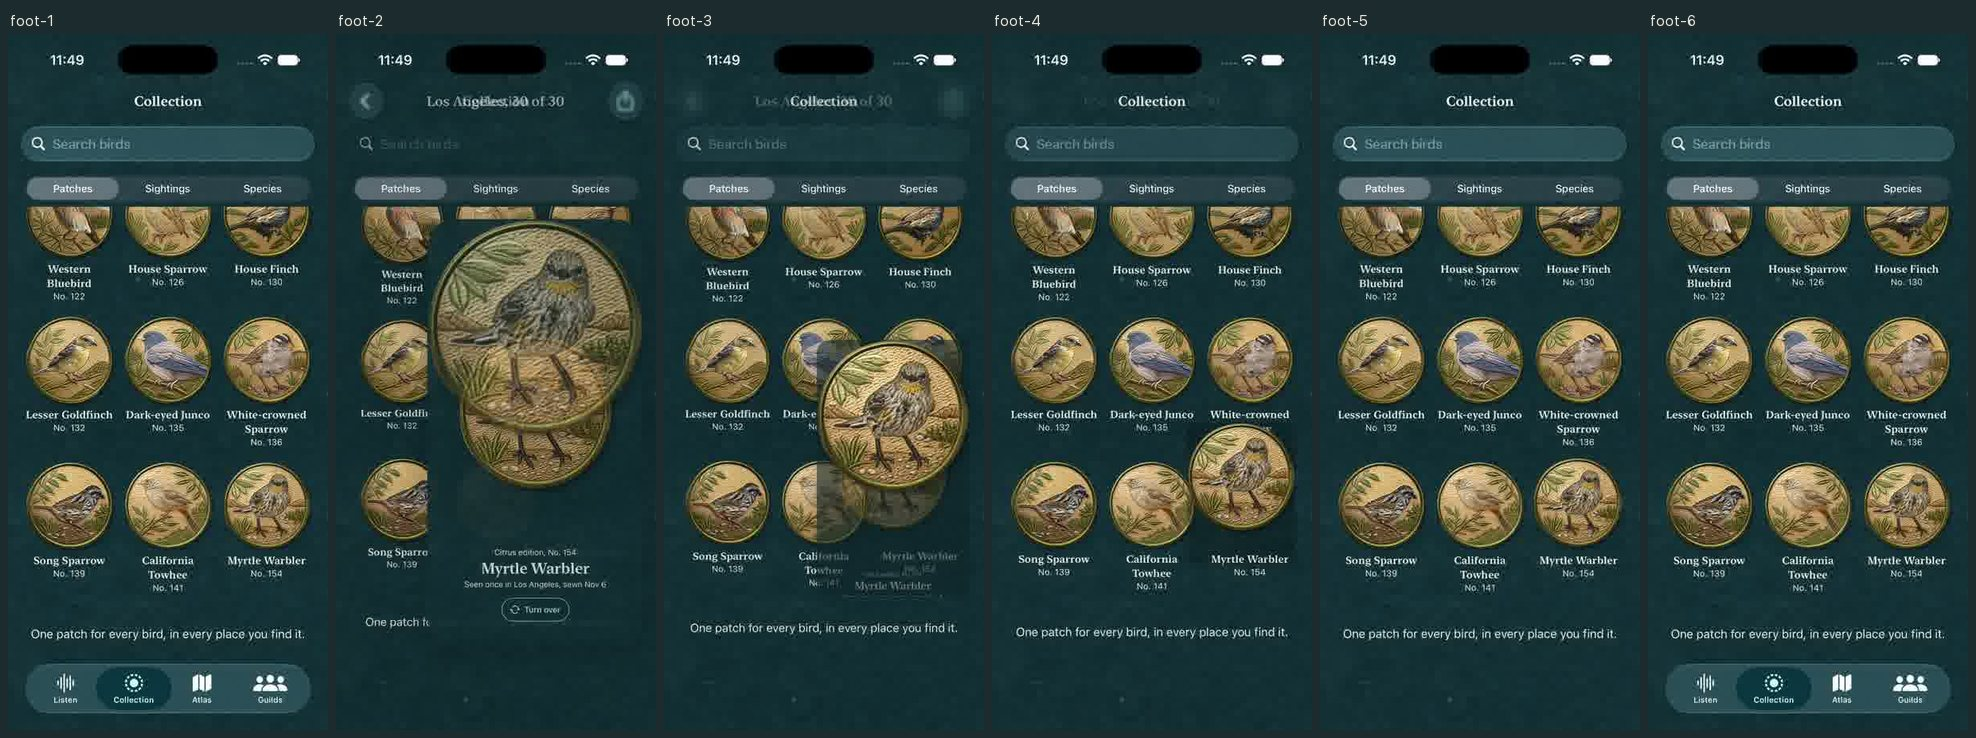
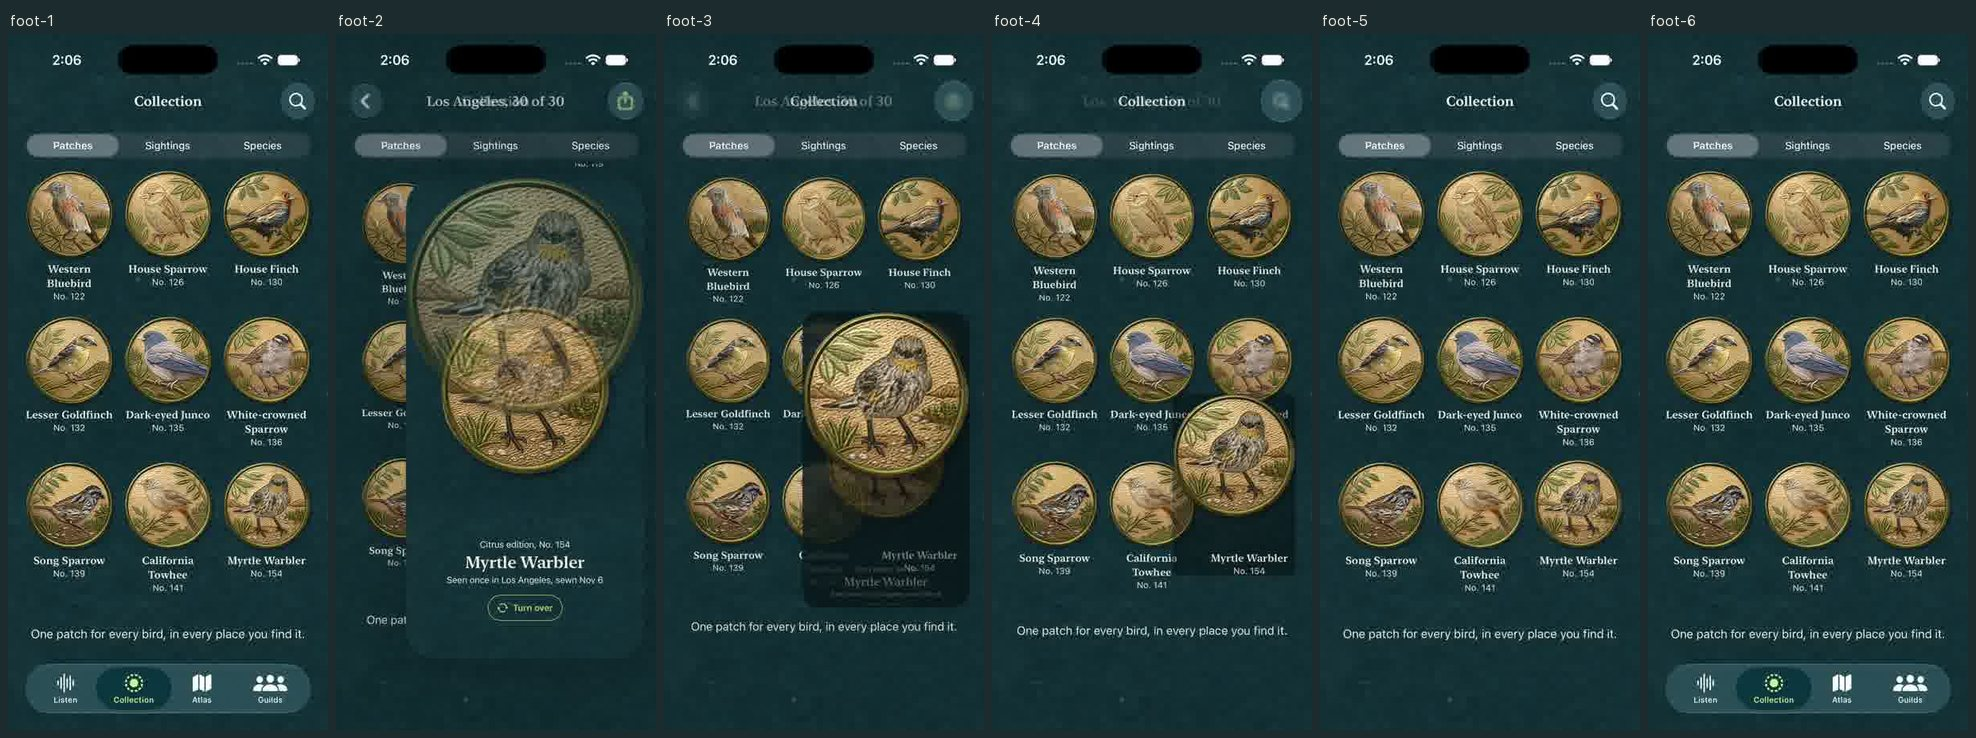
Feel: the search field's 8 pt, ax5 and Reduce Motion evidence (#150)

diff --git a/BirdJournal/BirdJournalUITests/CollectionUITests.swift b/BirdJournal/BirdJournalUITests/CollectionUITests.swift
@@ -64,7 +64,8 @@ final class CollectionUITests: XCTestCase {
         let finch = app.buttons.matching(NSPredicate(format: "label BEGINSWITH 'House Finch, Citrus edition patch'")).firstMatch
         XCTAssertTrue(finch.waitForExistence(timeout: 10), "\(app.debugDescription.prefix(3000))")
         XCTAssertFalse(app.buttons.matching(NSPredicate(format: "label BEGINSWITH 'Mourning Dove'")).firstMatch.exists, "the search kept only the match")
-        XCTAssertEqual(modes.frame.minY, top, accuracy: 0.5, "the picker moved")
+        // The open field stands 8 pt taller than the title's row, and only when asked for. No mode change moves it.
+        XCTAssertEqual(modes.frame.minY, top + 8, accuracy: 2, "the picker moved")
     }
 
     @MainActor

diff --git a/DECISIONS.md b/DECISIONS.md
@@ -1155,7 +1155,7 @@ How the app answers. Lift, press, haptics, the patch's pop-in, the set's menu, m
 - **The peek.** Turn over opens the patch's page on its paper card (`Route.patch(_, turned: true)`), and All sightings its sightings, through an environment action (`pushRoute`), rather than a `NavigationLink` inside a menu item. "All sightings" reads "1 sighting" or "All 3 sightings" as the paper card's footer does (`PatchText.allSightings`). Share shares the newest sighting, as the patch's page does, fetched when asked for so a board of tiles doesn't each hold the album.
 - **Pop-in.** Cached at first draw, a patch simply shows, and a page's patch shows the tile's picture until its own arrives, so it doesn't turn blank growing out of its tile. A wait shows the blank, which fades into the lit patch in 0.18 s. A board decodes ahead through `PatchTextures.decodeAhead`, one low-priority, utility-QoS operation at a time on the existing two-at-a-time queue, so a patch on screen always has a slot, and an operation that finds its patch already decoded does nothing. It stops with the board's task. The first 48 only: at about 650 KB each, a full 160 would be 100 MB, and the rest decode as they scroll in, as they do today.
 - **The set's menu.** The name heads the Patches mode and is the Menu when there's more than one set; with one, it's just the name, and the total shows nowhere, since the count under it says the same patches and Sightings has the rest. Under it the thread and "3 of 160 sewn, Citrus edition", still opening the set's page. The total ("5 patches, 6 sightings") is the menu's first line, above the sets: as a section title it doesn't show over a picker. The menu is in the bar with the modes, so another set is in reach from anywhere on a board; the thread and count scroll with the board. There, the name stops growing at the first accessibility size. The bar takes the touches on its empty parts. Slice 6's `ThreadProgress` sits under the name, with `.id(setID)`, so another set's thread doesn't sew from this one's count.
-- **The picker stays still.** It's in a `safeAreaBar` above the scroll view, under a title that doesn't collapse (`.inlineLarge`), with the set's menu. Pinned inside the scrolling content, it rode that content: from a scrolled board to Sightings it fell to about y=675 and climbed back over 0.3 s, as the new mode's height collapsed inside the fade, and it rested 52 pt apart between scrolled and not. So the bar stays one height, and the title keeps its row, swapping from large to small within it as a board scrolls. Search is a magnifier in that row (`.searchable(placement: .toolbar)` with `.searchToolbarBehavior(.minimize)`) that opens to a field: as a drawer it hid on scroll and took the picker with it by 52 pt, and as an always-showing field it cost 52 pt of patches at the top of a board, which the first version of this entry called the only way, wrongly. `testThePickerStaysStillThroughAModeChange` samples it through the change.
+- **The picker stays still.** It's in a `safeAreaBar` above the scroll view, under a title that doesn't collapse (`.inlineLarge`), with the set's menu. Pinned inside the scrolling content, it rode that content: from a scrolled board to Sightings it fell to about y=675 and climbed back over 0.3 s, as the new mode's height collapsed inside the fade, and it rested 52 pt apart between scrolled and not. So the bar stays one height, and the title keeps its row, swapping from large to small within it as a board scrolls. Search is a magnifier in that row (`.searchable(placement: .toolbar)` with `.searchToolbarBehavior(.minimize)`) that opens to a field: as a drawer it hid on scroll and took the picker with it by 52 pt, and as an always-showing field it cost 52 pt of patches at the top of a board, which the first version of this entry called the only way, wrongly. Opening the field moves the picker down 8 pt, on that tap alone; no mode change or scroll does. At the largest text the field stays in its row, where as a drawer it took 124 pt. `testThePickerStaysStillThroughAModeChange` samples it through the change.
 - **Modes.** The surface cross-fades (0.25 s, 0.12 s under Reduce Motion), as the issue says, in one scroll view. What's on it doesn't cross-fade with it, because that scroll view moves to the new mode's place about 60 ms in, and the old mode would be seen jumping as it faded: the old mode is gone in 0.05 s, and the new one comes up from 0.08 s. One scroll view per mode would have kept each one's offset for free, but would have put a second picker on screen and handed the navigation bar a new scroll view at each change. A quick run of changes cancels the restore under way, so a mode's saved place isn't overwritten part way.
 - **The foot of a board.** A real bug, not load: opening a patch and coming back left the foot of a board 49 pt lower every time (537 to 586, the tab bar's height). The page hides the tab bar, the scroll view underneath gets taller, and the offset was clamped. Correcting it afterwards still let the zoom land low, so now it isn't clamped: there's room below the content from the moment the page opens until the bar is back. A finger on the board takes the room away at once, so a flick can't reach empty felt and then be pulled back. `testTheFootOfABoardComesBackWhereItWas` failed before and holds it.
 - **The splash** is decided in `AppSurface`, not the `App`, whose closure Swift 6 traps off the main actor. It plays until `launchSplashShown` is set, which is at its start, so a launch killed part way has still shown it. An upgrade shows it once more. The launch screen stays. Slice 11's art goes in `LaunchSplash.art`.

diff --git a/docs/screenshots/150/feel/README.md b/docs/screenshots/150/feel/README.md
@@ -8,7 +8,7 @@ Every picture is the running app on an iPhone 17 Pro simulator at half size, tak
 | R2 | A spring press on the shared styles, or a dim under Reduce Motion | none: it lasts as long as a finger | `FeelTests.press`, and on a phone |
 | R3 | One list of haptics | none | `FeelTests.haptics` for the table; `FeelUITests` for which moments ask (`-hapticLog`), and on a phone |
 | R6 | The blank fades into the patch; the board decodes ahead | none: 0.18 s | `FeelTests` for decoding ahead, its stop and a visible patch first; the sweep below |
-| F9 | The set's name is the menu, pinned with the modes, its thread and count under it, the total in the menu | `board-dark`, `menu-dark`, `board-scrolled-dark`, `search-dark`, `board-light`, `board-ax5`, `board-contrast` | `FeelUITests`, `testTheSetMenuIsInReachFromAScrolledBoard`, `ScreenAccessibilityTests` |
+| F9 | The set's name is the menu, pinned with the modes, its thread and count under it, the total in the menu | `board-dark`, `menu-dark`, `board-scrolled-dark`, `search-dark`, `search-ax5`, `board-light`, `board-ax5`, `board-contrast` | `FeelUITests`, `testTheSetMenuIsInReachFromAScrolledBoard`, `ScreenAccessibilityTests` |
 | F10 | The surface cross-fades, and each mode keeps its place | `mode-fade-dark`, part way through a surface's fade slowed to 6 s, with `board-dark`, `sightings-dark` either side; `modes-1` to `modes-6` | `testChangingModeCrossFadesTheSurfaceToTheRightMode` measures the surface between the two; `testThePickerStaysStillThroughAModeChange` samples the picker during the change; `testEachModeKeepsItsScrollPositionThroughChanges`, `testTheOldModeHasGoneBeforeTheScrollMoves`, `testTheFootOfABoardComesBackWhereItWas` |
 | F15 | The splash on first launch only | `splash-dark` | `testTheSplashPlaysOnTheFirstLaunchOnly` |
 | F20 | The reveal: one primary, Share, Undo in its window, the patch as the way to the collection, "Shared with" | `reveal-dark`, `reveal-shared-dark`, `reveal-undo-dark`, `sewing-dark`, `reveal-light`, `reveal-ax5` | `FeelUITests`, `SewingCeremonyAccessibilityTests`, `FeelTests.sharedLine` |
